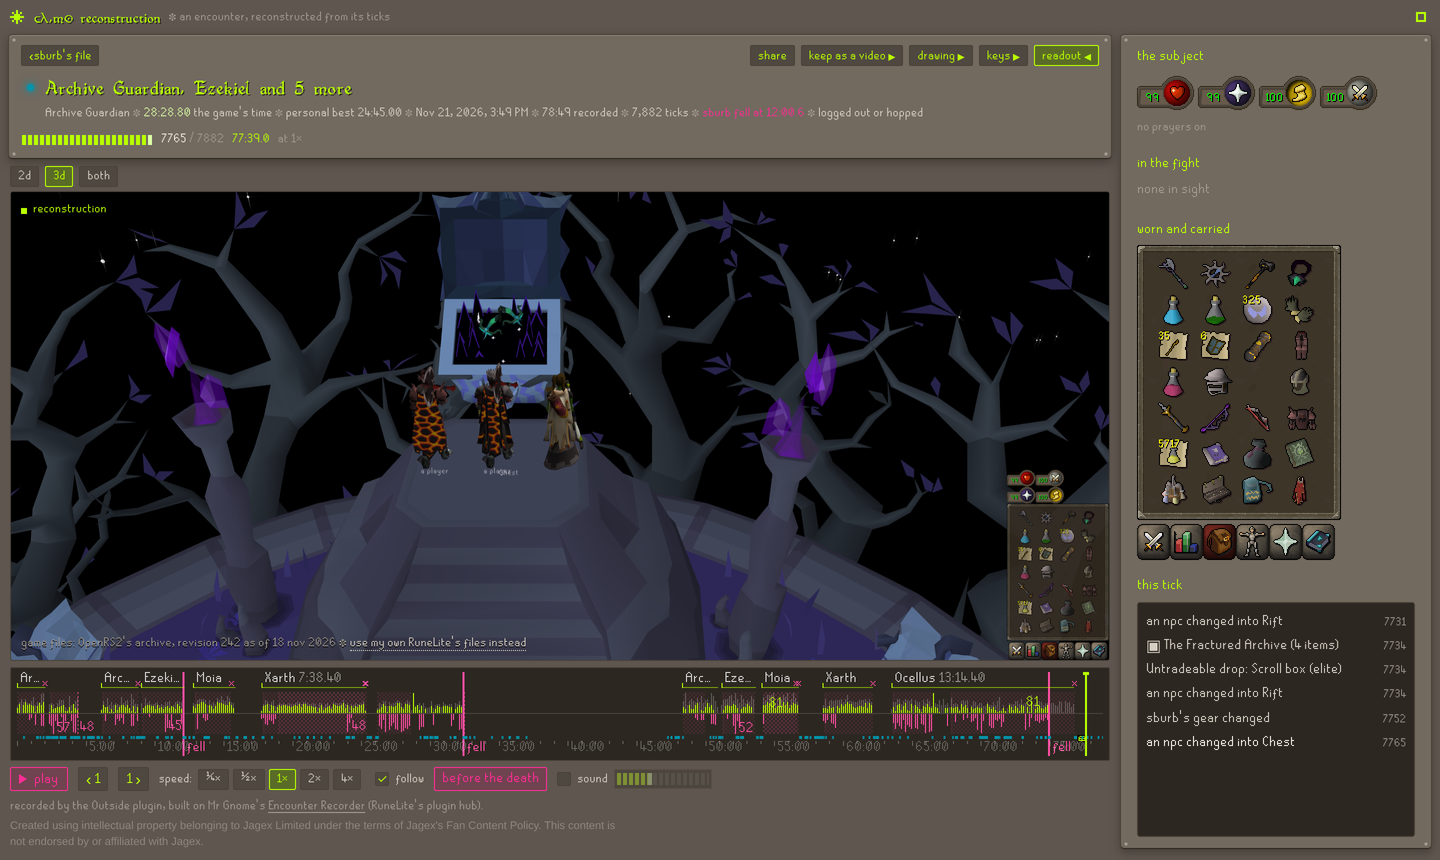
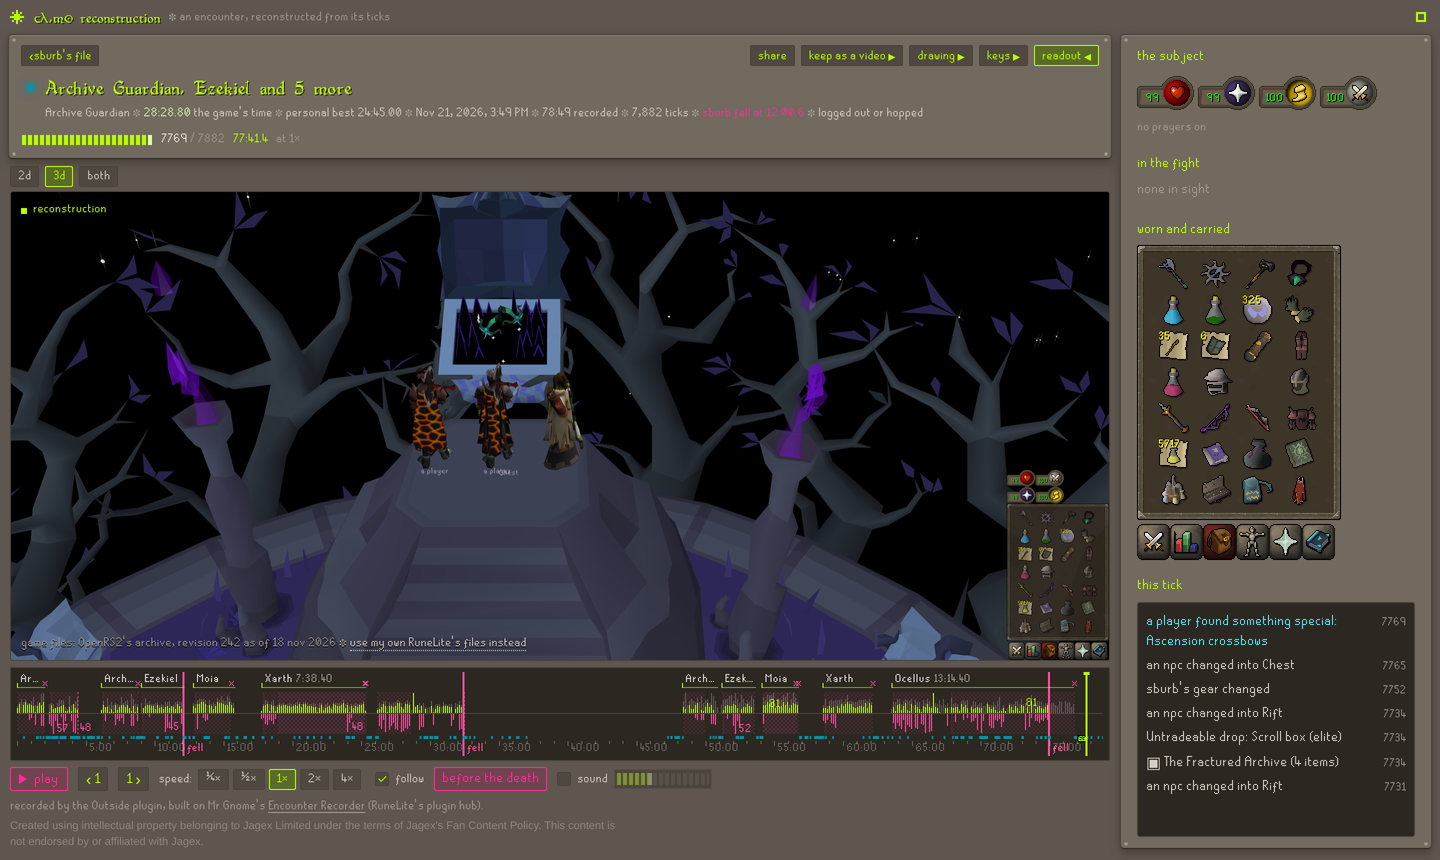
The Hub's README: two GIFs (the captured motion, Ocellus's last phase), the chest at tick 7769
Claude-Session: https://claude.ai/code/session_015m6iunNsuJ3to6ksw3SC2o

diff --git a/plugin/README.hub.md b/plugin/README.hub.md
@@ -7,19 +7,27 @@
 
 **Your page** (outside.wiki/sburb)
 
-![A player's page on Outside.wiki: their card, their featured fight, their character in 3D with their pet, what they carry and their goal](https://raw.githubusercontent.com/jhmcubed/outside-plugin/fada5e59f25cd471f03182ea714017028edefc5f/assets/page.png)
+![A player's page on Outside.wiki: their card, their featured fight, their character in 3D with their pet, what they carry and their goal](https://raw.githubusercontent.com/jhmcubed/outside-plugin/c19976296d8b76bb29b2688736db731e4d0cbe20/assets/page.png)
 
-**Your boss fights, replayed** in 2D or 3D, every boss of a raid on one line, down to the reward chest
+**Your character, in motion:** press Capture my character and do an emote; your page plays it back, from any side
 
-![A Fractured Archive raid replayed on Outside.wiki: the team at the treasure room's chest in 3D, the subject's gear, the bosses along the timeline](https://raw.githubusercontent.com/jhmcubed/outside-plugin/fada5e59f25cd471f03182ea714017028edefc5f/assets/replay.png)
+![A captured emote played back on Outside.wiki: the subject in a red cape waving a staff, turning slowly, their pet mole beside them](https://raw.githubusercontent.com/jhmcubed/outside-plugin/c19976296d8b76bb29b2688736db731e4d0cbe20/assets/character.gif)
+
+**Your boss fights, replayed** in 2D or 3D, tick by tick
+
+![Ocellus's last phase in the Fractured Archive replayed in 3D: the team on the boss as the floor breaks into the void](https://raw.githubusercontent.com/jhmcubed/outside-plugin/c19976296d8b76bb29b2688736db731e4d0cbe20/assets/replay.gif)
+
+Every boss of a raid on one line, down to the reward chest
+
+![A Fractured Archive raid replayed on Outside.wiki: the team at the treasure room's chest in 3D, its unique called out in the tick log, the bosses along the timeline](https://raw.githubusercontent.com/jhmcubed/outside-plugin/c19976296d8b76bb29b2688736db731e4d0cbe20/assets/replay.png)
 
 **Every kill, every best**
 
-![Entities slain: each boss's kill count, best time and rank](https://raw.githubusercontent.com/jhmcubed/outside-plugin/fada5e59f25cd471f03182ea714017028edefc5f/assets/entities-slain.png)
+![Entities slain: each boss's kill count, best time and rank](https://raw.githubusercontent.com/jhmcubed/outside-plugin/c19976296d8b76bb29b2688736db731e4d0cbe20/assets/entities-slain.png)
 
 **The side tab in RuneLite**
 
-![The Outside side tab's three tabs: Page (goals, who sees it, Dink, the register, the aether, the key), Model (capture your character, a still or a motion) and Encounters (recorded fights, kept for good, featured)](https://raw.githubusercontent.com/jhmcubed/outside-plugin/fada5e59f25cd471f03182ea714017028edefc5f/assets/side-tab.png)
+![The Outside side tab's three tabs: Page (goals, who sees it, Dink, the register, the aether, the key), Model (capture your character, a still or a motion) and Encounters (recorded fights, kept for good, featured)](https://raw.githubusercontent.com/jhmcubed/outside-plugin/c19976296d8b76bb29b2688736db731e4d0cbe20/assets/side-tab.png)
 
 ## What it does
 

diff --git a/docs/hub-submission.md b/docs/hub-submission.md
@@ -584,9 +584,9 @@ update 8". Built from the plan under **Trips** in "Update 7 (planned, 11/22/2026
 - **The README** (11/23/2026, Jace: "we should have pictures or video of the website and plugin", after RuneProfile's
   Hub page): install and rank badges from RuneLite's own stats, a one-line pitch ("The hiscores show numbers; Outside
   shows you."), and four pictures, each with a bold line: the page (sburb's own, his character at the angle he chose),
-  his Fractured Archive raid replayed in 3D, the team at its reward chest (tick 7765, his pick), entities slain, and
+  his Fractured Archive raid replayed in 3D, the team at its reward chest (tick 7769, his pick: the tick log's newest line "a player found something special: Ascension crossbows"), entities slain, and
   his own side tab's three tabs (his screenshots; none from the local world, his call). The pictures are in the
-  plugin's `assets/` and linked by the commit that holds them (fada5e5; the Model tab Jace's newer shot), so they don't move. No video yet.
+  plugin's `assets/` and linked by the commit that holds them (fada5e5; the Model tab Jace's newer shot), so they don't move. And two GIFs (11/23/2026, his asks): his character's captured motion (a red cape and staff, the page turning it slowly; 16 s, 5.5 MB) and Ocellus's last phase replayed in 3D (ticks 7418-7450 at his camera angle, yaw 4.0, pitch 1.0, zoom 380; 19 s, 6.6 MB), recorded from the sketch with the replay's tick log newest-first. All linked by c199762.
 - **Not in it** (from the plan): what dropped on the tile (the list carries no loot yet), an open area's kills in a row.
 
 Checked: gradle test (whole 207, the cut 151: `TripsTest`), hub_check both, hub_cut --check, start_check on the cut
